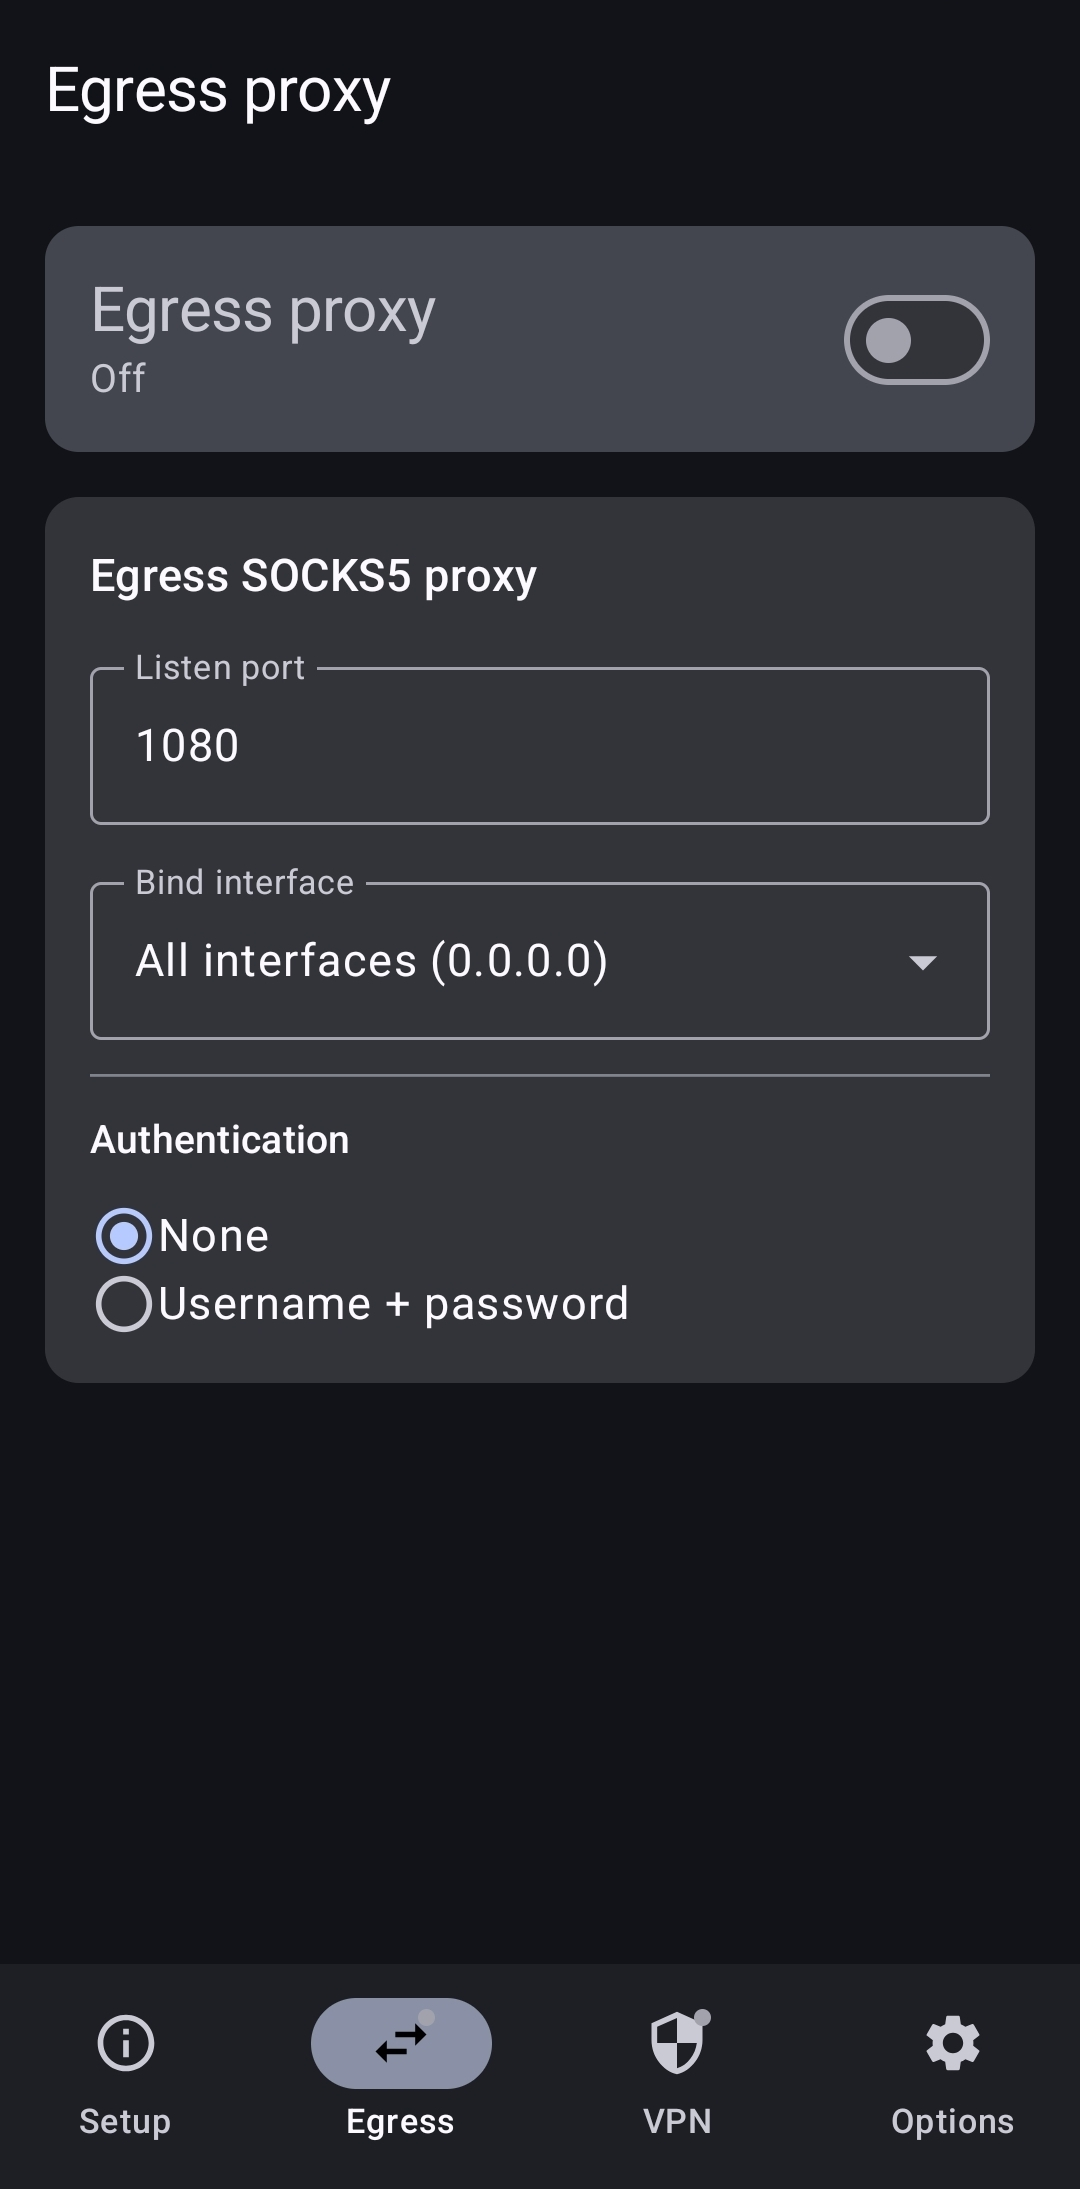
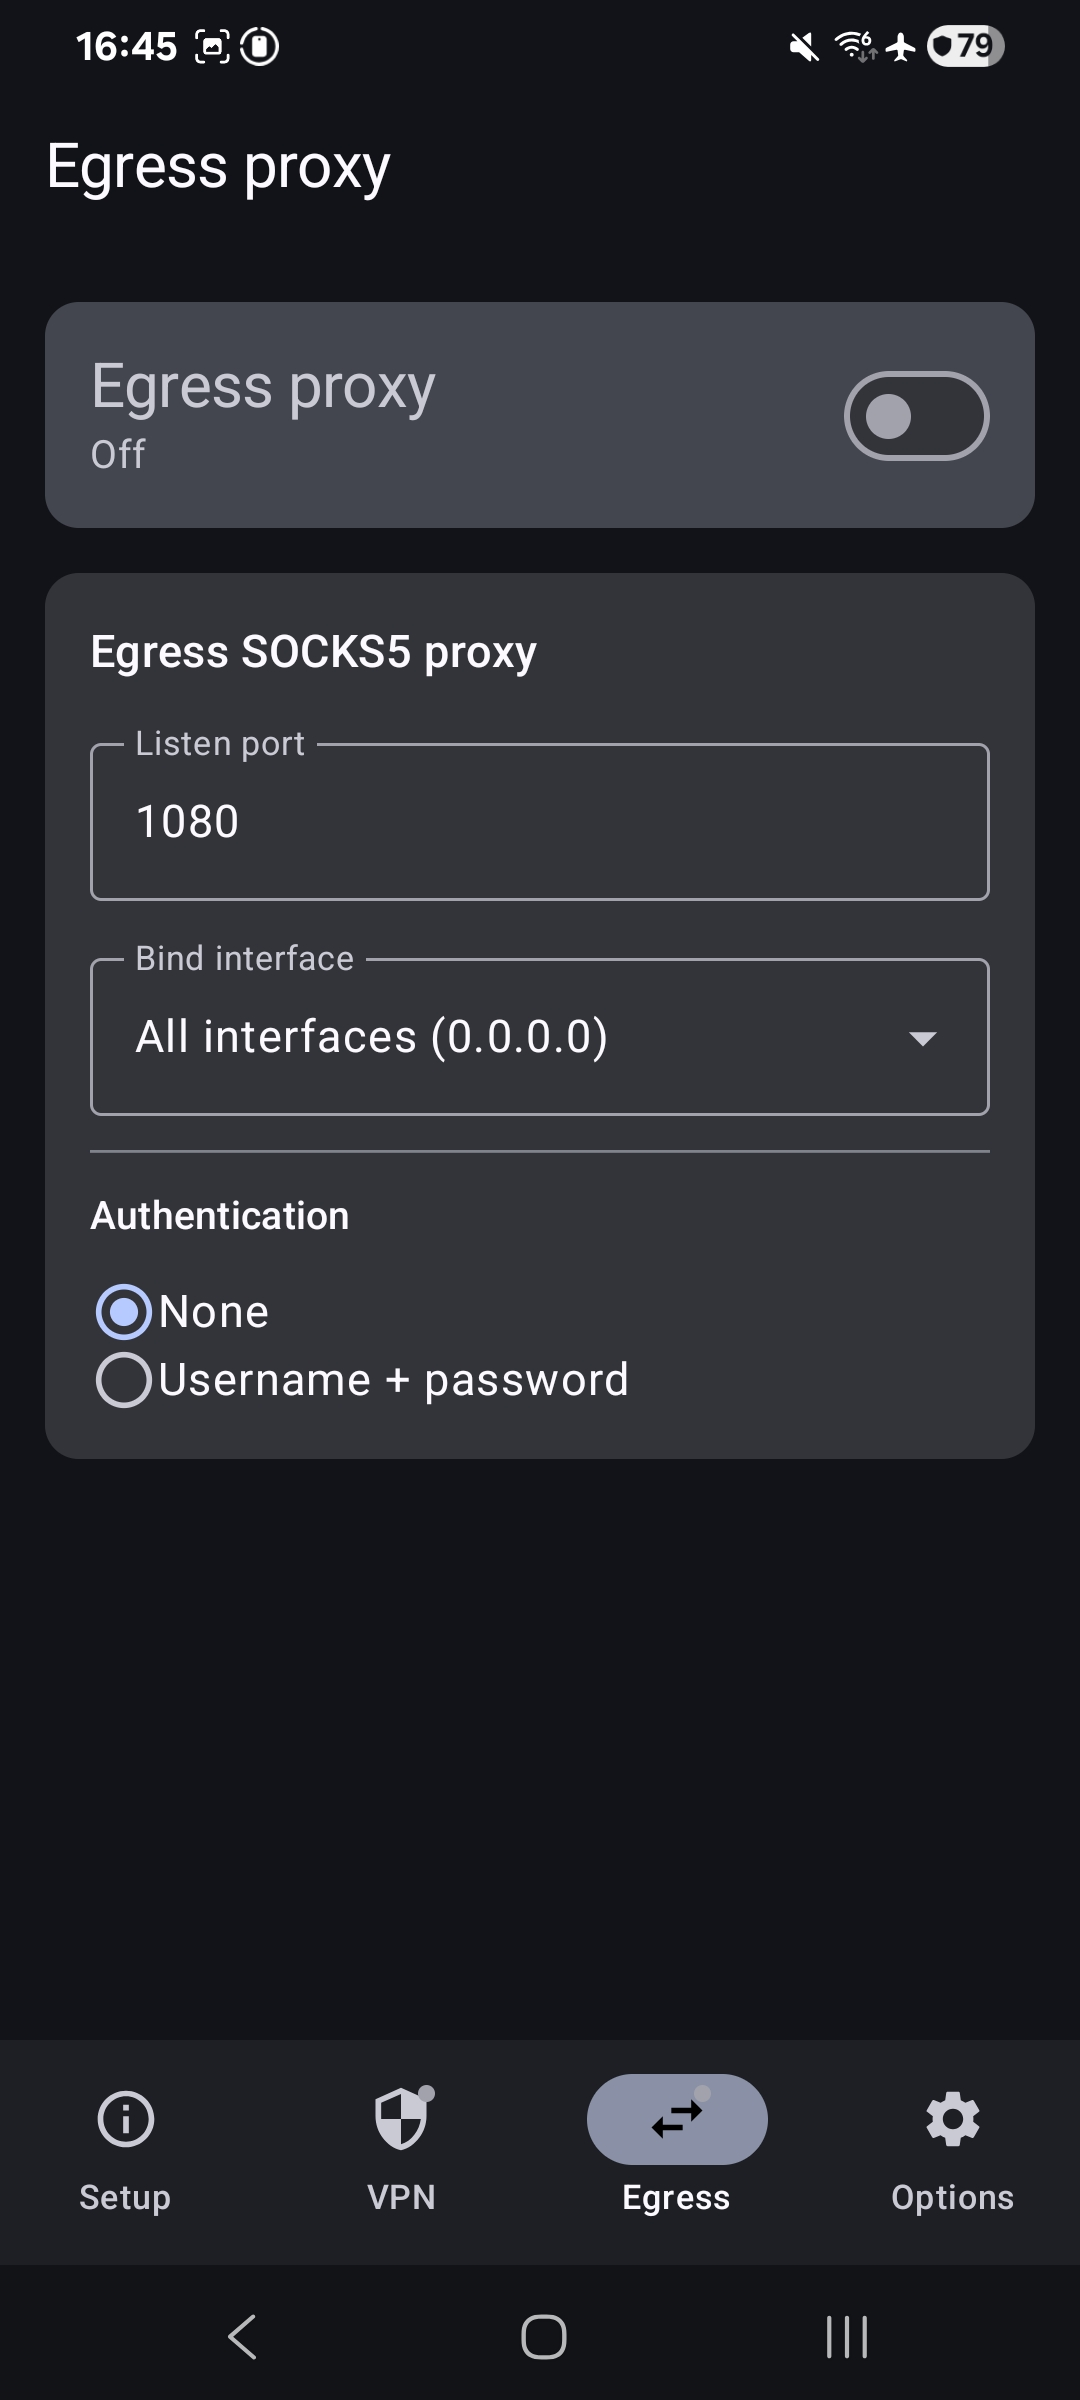
rename upstream proxy to interception proxy

diff --git a/app/src/main/kotlin/eu/matscheko/pivot/MainActivity.kt b/app/src/main/kotlin/eu/matscheko/pivot/MainActivity.kt
@@ -252,8 +252,8 @@ private fun PivotTheme(content: @Composable () -> Unit) {
 
 private enum class Tab(val title: String, val label: String, val icon: Int) {
     SETUP("Pivot setup", "Setup", R.drawable.ic_tab_setup),
-    EGRESS("Egress proxy", "Egress", R.drawable.ic_tab_egress),
     VPN("VPN capture", "VPN", R.drawable.ic_tab_vpn),
+    EGRESS("Egress proxy", "Egress", R.drawable.ic_tab_egress),
     OPTIONS("App options", "Options", R.drawable.ic_tab_options),
 }
 
@@ -474,7 +474,7 @@ private fun MainScreen(
                     VpnSwitchCard(vpn = vpn, onToggle = onToggleVpn)
                     Card(Modifier.fillMaxWidth()) {
                         Column(Modifier.padding(16.dp), verticalArrangement = Arrangement.spacedBy(12.dp)) {
-                            Text("Upstream proxy (e.g. Burp Suite)", style = MaterialTheme.typography.titleMedium)
+                            Text("Upstream proxy (interception proxy)", style = MaterialTheme.typography.titleMedium)
                             Text("Proxy type", style = MaterialTheme.typography.titleSmall)
                             Column(Modifier.selectableGroup()) {
                                 AuthOption(
@@ -486,7 +486,7 @@ private fun MainScreen(
                                     persist { it.copy(upstreamType = AppSettings.UPSTREAM_SOCKS5) }
                                 }
                                 AuthOption(
-                                    "HTTP/S (CONNECT) — required for Burp Suite",
+                                    "HTTP/S (CONNECT) — required for most interception proxies",
                                     upstreamType == AppSettings.UPSTREAM_HTTP,
                                     !vpnRunning,
                                 ) {
@@ -766,8 +766,8 @@ private fun StatusDashboardCard(egress: ServerState, vpn: VpnState) {
     Card(Modifier.fillMaxWidth()) {
         Column(Modifier.padding(16.dp), verticalArrangement = Arrangement.spacedBy(12.dp)) {
             Text("Status", style = MaterialTheme.typography.titleMedium)
-            StatusRow("Egress proxy", egressText, egress is ServerState.Running)
             StatusRow("VPN capture", vpnText, vpn is VpnState.Running)
+            StatusRow("Egress proxy", egressText, egress is ServerState.Running)
         }
     }
 }
@@ -1007,9 +1007,8 @@ private fun PivotHelpCard() {
         Column(Modifier.padding(16.dp), verticalArrangement = Arrangement.spacedBy(8.dp)) {
             Text("How the pivot works", style = MaterialTheme.typography.titleMedium)
             Text(
-                "Device traffic → VPN capture → upstream proxy (Burp Suite) → the phone's " +
-                    "own egress proxy → out the phone's interface. Names are resolved on " +
-                    "the egress side, so the origin sees the phone, not the laptop.",
+                "Device traffic → VPN capture → upstream proxy (interception proxy) → Egress proxy " +
+                    "→ out the phone's interface, so the origin sees the phone, not the laptop.",
                 style = MaterialTheme.typography.bodySmall,
                 color = MaterialTheme.colorScheme.onSurfaceVariant,
             )

diff --git a/app/src/main/kotlin/eu/matscheko/pivot/settings/Settings.kt b/app/src/main/kotlin/eu/matscheko/pivot/settings/Settings.kt
@@ -19,7 +19,7 @@ private val Context.dataStore: DataStore<Preferences> by preferencesDataStore(na
  * Single settings model for both engines.
  *
  *  - egress*  → the on-device SOCKS5 listener (microsocks).
- *  - upstream* → the inspection/pivot proxy the VPN sends captured traffic to (e.g. Burp).
+ *  - upstream* → the interception proxy the VPN sends captured traffic to (e.g. Burp).
  *  - vpn behaviour → fake-IP DNS, direct DNS, per-app, ipv6 (from socksdroid Profile).
  */
 data class AppSettings(

diff --git a/README.md b/README.md
@@ -7,15 +7,15 @@
 
 An Android app for penetration testing that turns the phone into a transparent
 **pivot**: it captures all device traffic through a local VPN, routes it through an
-external inspection proxy (e.g. **Burp Suite**), and sends it back into the phone's
+external interception proxy (e.g. **Burp Suite**), and sends it back into the phone's
 own SOCKS5 proxy so it finally egresses through the phone's own network interface.
 
-The result: you can inspect 100% of a device's traffic in Burp while the origin
-servers still see the **phone's** IP (same carrier/Wi-Fi network), and DNS names are
-resolved on the phone, not on the laptop running Burp.
+The result: you can inspect 100% of a device's traffic in the interception proxy while
+the origin servers still see the **phone's** IP (same carrier/Wi-Fi network), and DNS
+names are resolved on the phone, not on the laptop running the proxy.
 
 ```
-apps on phone ─▶ VPN capture ─▶ upstream proxy (Burp) ─▶ phone's egress proxy ─▶ internet
+apps on phone ─▶ VPN capture ─▶ upstream proxy (interception) ─▶ phone's egress proxy ─▶ internet
                                                             (resolves DNS on-device,
                                                              egresses via phone)
 ```
@@ -45,12 +45,12 @@ tun↔SOCKS bridge is a userspace TCP/IP stack written in Kotlin. It uses code f
 
 ### Two engines
 
+- **Capturing VPN** — a local `VpnService` that pulls all device traffic through a
+  userspace, pure-Kotlin tun↔SOCKS bridge and forwards it to your upstream interception
+  proxy, with DNS-over-SOCKS5.
 - **Egress proxy** — an on-device SOCKS5 server that finally egresses captured traffic
   through the phone's own network interface, so origin servers see the **phone's** IP
   and DNS is resolved on-device. Configurable port, bind address and auth.
-- **Capturing VPN** — a local `VpnService` that pulls all device traffic through a
-  userspace, pure-Kotlin tun↔SOCKS bridge and forwards it to your upstream inspection
-  proxy (Burp Suite), with DNS-over-SOCKS5.
 
 Running both at once **is** the pivot.
 
@@ -59,8 +59,8 @@ Running both at once **is** the pivot.
 | Tab | What it's for |
 | --- | --- |
 | **Setup** | A live status dashboard (Egress + VPN) and the pivot how-to. |
+| **VPN** | The capturing VPN: the upstream interception proxy, proxy type, DNS mode, domain bypass, and per-app capture. Master switch. |
 | **Egress** | The on-device SOCKS5 proxy that finally egresses traffic. Master switch + port/bind/auth. |
-| **VPN** | The capturing VPN: the upstream proxy (Burp Suite), proxy type, DNS mode, domain bypass, and per-app capture. Master switch. |
 | **Options** | Start the egress proxy and/or VPN capture on boot, and a shortcut to battery-optimization settings. |
 
 The Egress and VPN nav icons carry a small status dot: **green = running**,

diff --git a/ARCHITECTURE.md b/ARCHITECTURE.md
@@ -44,7 +44,7 @@ way to the egress, which resolves it on-device. That is "DNS-over-SOCKS5".
 | fake-IP pool | `198.18.0.0/15` | synthetic addresses handed out by FakeDns |
 | DNS stub | `8.8.8.8` | advertised resolver; routed `/32` into the tun |
 | egress proxy | `:1080` (default) | EgressService listen port |
-| upstream proxy | `127.0.0.1:8080` (default) | the inspection proxy (Burp) |
+| upstream proxy | `127.0.0.1:8080` (default) | the interception proxy |
 | MTU | `1500` | tun MTU |
 
 (IPv6, when enabled: tun `fdfe:dcba:9876::1/126`, netif `…::2`, default route `::/0`.)
@@ -170,10 +170,9 @@ underlying network's DNS* → (off) *manual DNS server/port*.
 
 ### Upstream proxy protocol (SOCKS5 or HTTP/S)
 
-The upstream/inspection proxy can be reached either as a **SOCKS5** proxy or as an
-**HTTP/S `CONNECT`** proxy. The latter is required for **Burp Suite**, whose proxy
-listener accepts HTTP/S proxy connections but not SOCKS5. The VPN tab exposes this as
-a *Proxy type* choice (`AppSettings.upstreamType`).
+The upstream/interception proxy can be reached either as a **SOCKS5** proxy or as an
+**HTTP/S `CONNECT`** proxy. The latter is required for **Burp Suite**. The VPN tab
+exposes this as a *Proxy type* choice (`AppSettings.upstreamType`).
 
 The stack→shim hop is plain SOCKS5, so the HTTP `CONNECT` is performed by `LocalShim`:
 

diff --git a/docs/adb-control.md b/docs/adb-control.md
@@ -91,7 +91,7 @@ ignored, with a warning in the log.
 | --- | --- | --- | --- |
 | `upstream_host` | `--es` | string | e.g. `127.0.0.1` |
 | `upstream_port` | `--ei` | int | `1`–`65535` |
-| `upstream_type` | `--es` | string | `socks5` or `http` (use `http` for Burp Suite) |
+| `upstream_type` | `--es` | string | `socks5` or `http` (`http` is required for most interception proxies) |
 | `upstream_auth` | `--ez` | bool | proxy requires username/password |
 | `upstream_user` | `--es` | string | |
 | `upstream_pass` | `--es` | string | |
